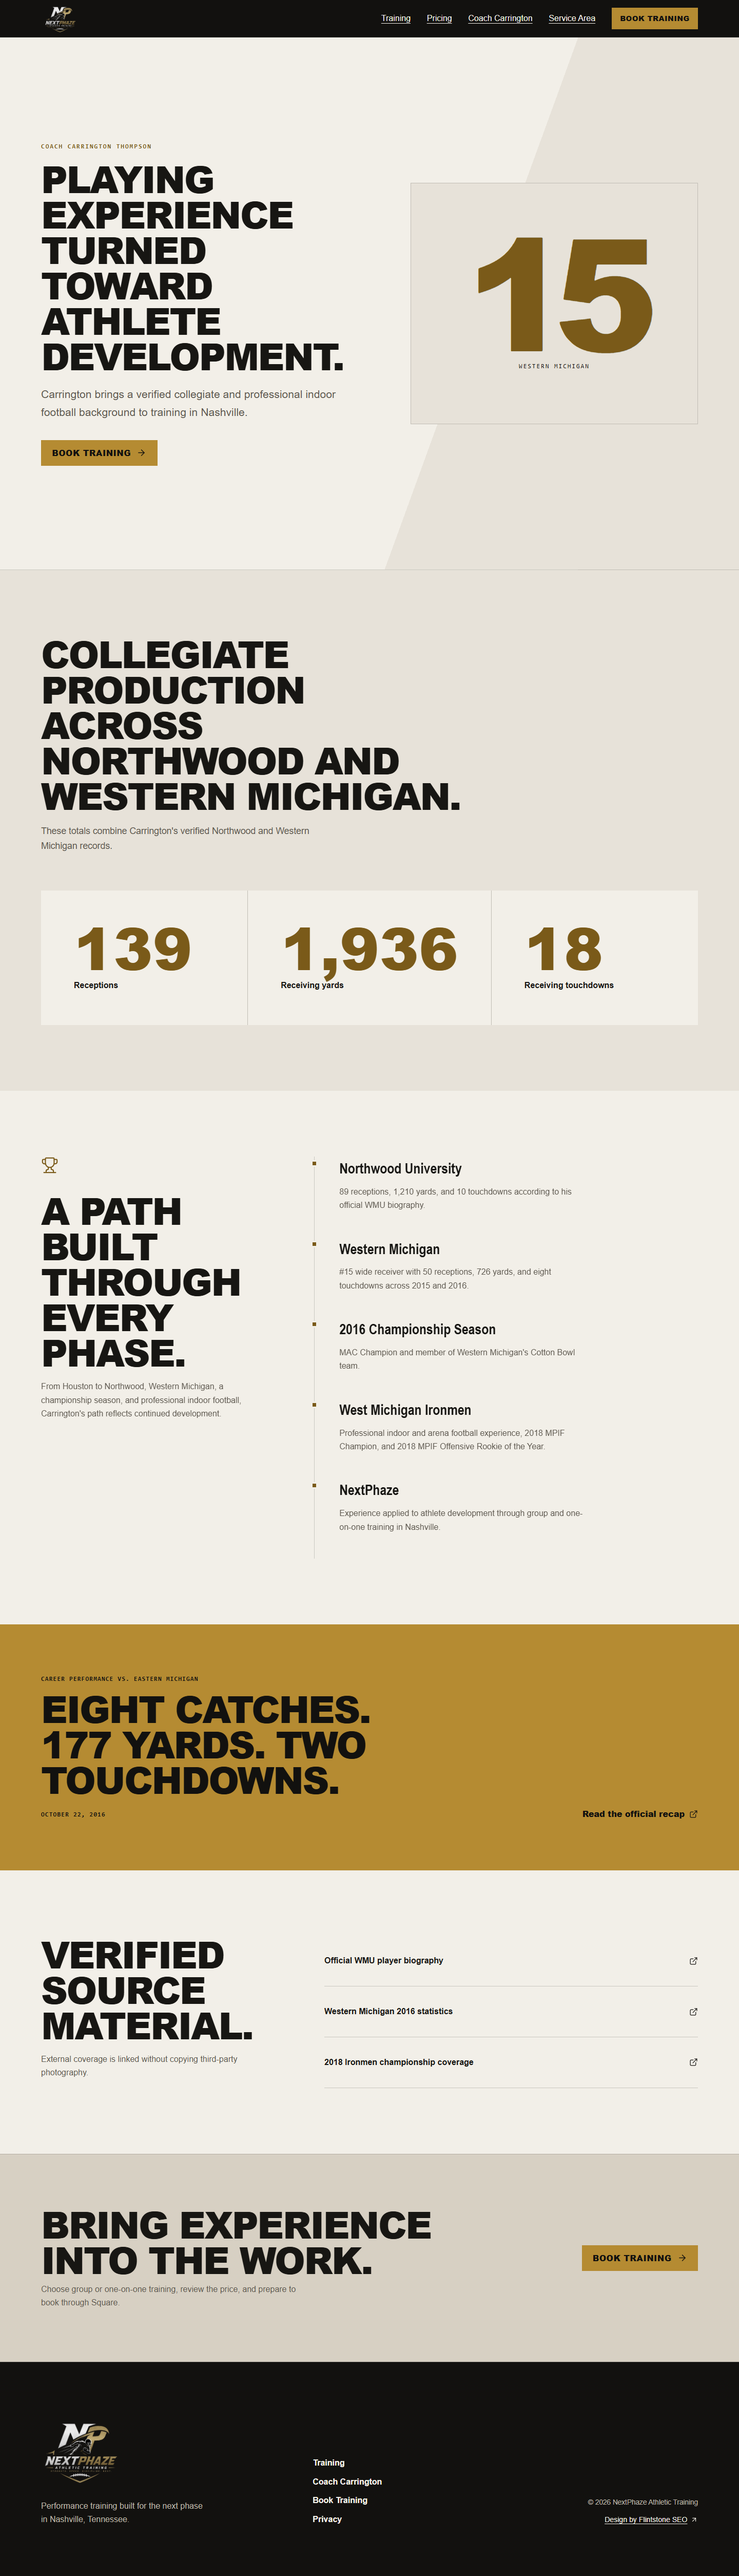
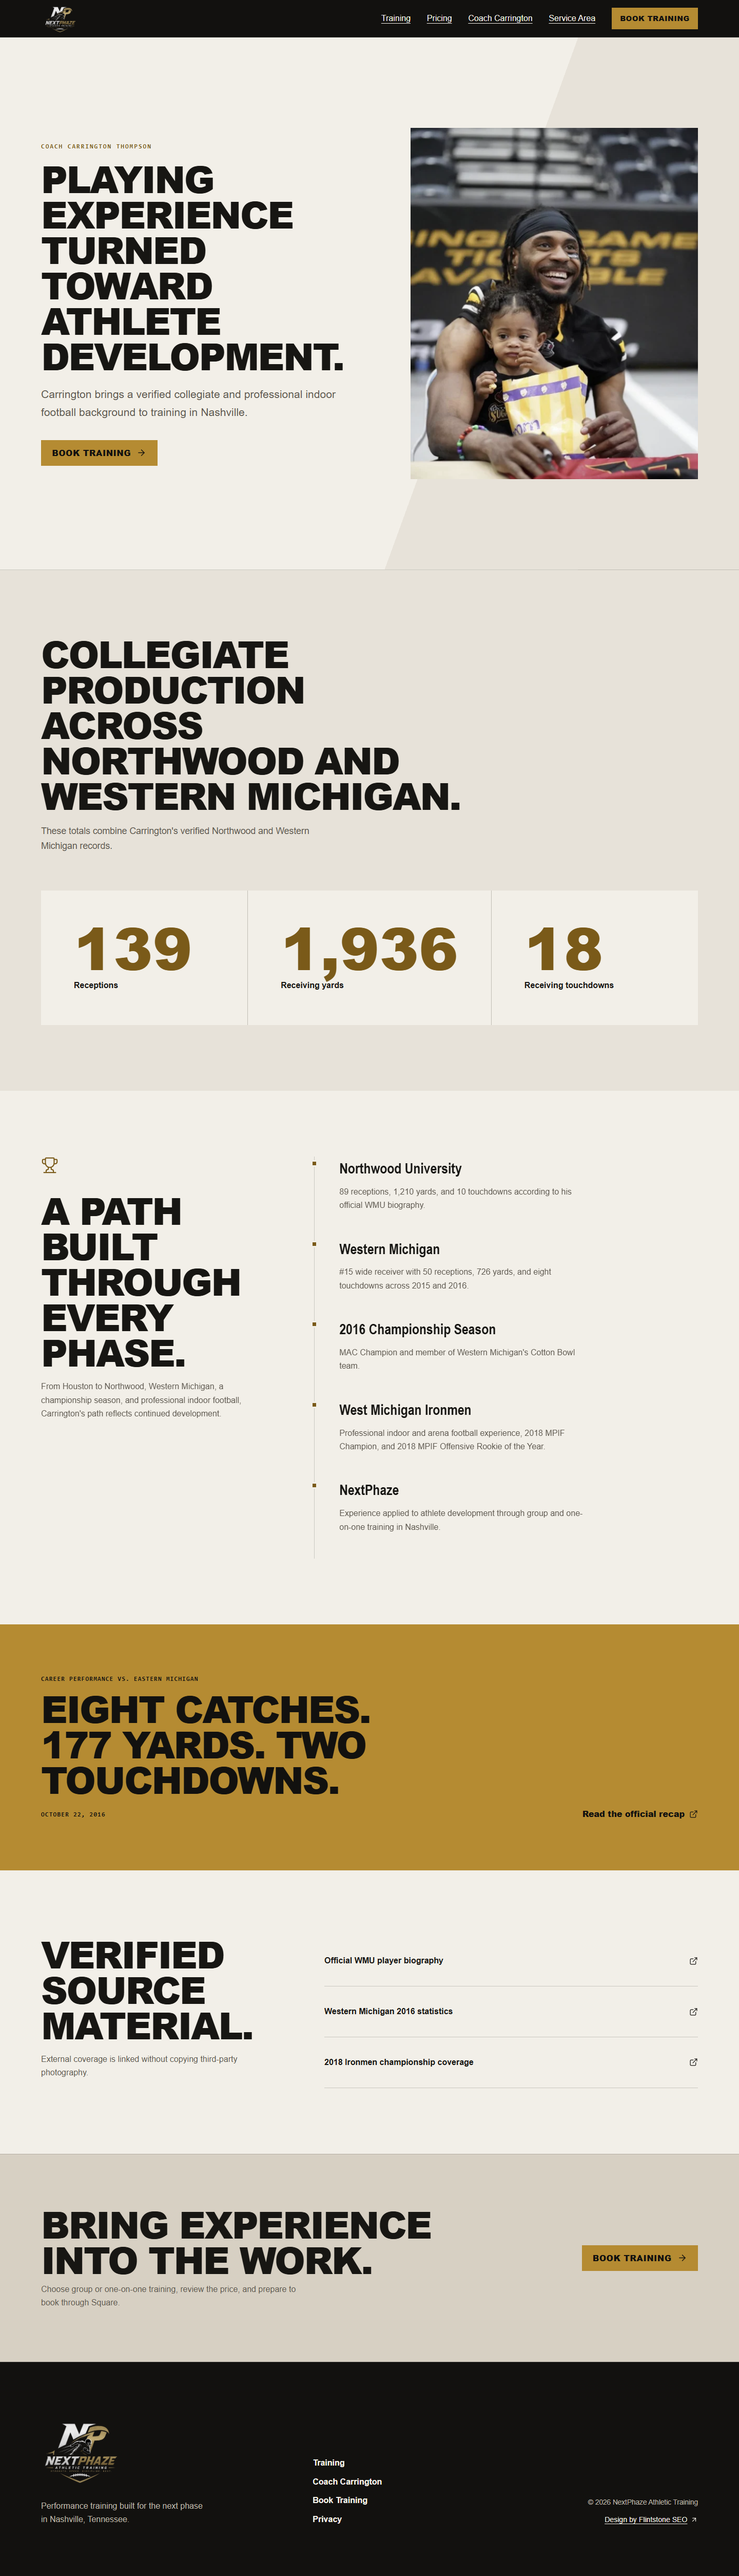
updated images

Changed region(s): [[0.5312, 0.0311, 0.9688, 0.1866]]

diff --git a/src/content.config.ts b/src/content.config.ts
@@ -19,7 +19,7 @@ const contentBlock = z.discriminatedUnion('_type', [
   z.object({ _type: z.literal('training_hero'), eyebrow: z.string(), title: z.string(), copy: z.string(), button_label: z.string(), button_href: z.string(), route_steps: z.array(z.object({ label: z.string() })) }),
   z.object({ _type: z.literal('format_section'), title: z.string(), copy: z.string() }),
   z.object({ _type: z.literal('focus_index'), title: z.string(), image: z.string(), image_alt: z.string() }),
-  z.object({ _type: z.literal('coach_hero'), eyebrow: z.string(), title: z.string(), copy: z.string(), button_label: z.string(), button_href: z.string(), mark_number: z.string(), mark_label: z.string() }),
+  z.object({ _type: z.literal('coach_hero'), eyebrow: z.string(), title: z.string(), copy: z.string(), button_label: z.string(), button_href: z.string(), image: z.string(), image_alt: z.string() }),
   z.object({ _type: z.literal('career_stats'), title: z.string(), copy: z.string(), stats: z.array(valueLabel) }),
   z.object({ _type: z.literal('career_story'), title: z.string(), copy: z.string(), items: z.array(textPair) }),
   z.object({ _type: z.literal('performance_callout'), eyebrow: z.string(), title: z.string(), date: z.string(), link_label: z.string(), link_href: z.string() }),

diff --git a/src/styles/global.css b/src/styles/global.css
@@ -985,30 +985,20 @@ h3 {
   overflow-wrap: normal;
 }
 
-.coach-mark {
-  display: grid;
-  min-height: 470px;
-  place-content: center;
-  border: 1px solid var(--line);
+.coach-portrait {
+  position: relative;
+  min-height: 520px;
+  margin: 0;
+  overflow: hidden;
   background: var(--surface);
-  text-align: center;
 }
 
-.coach-mark span {
-  color: var(--gold);
-  font-family: var(--display);
-  font-size: clamp(10rem, 24vw, 19rem);
-  font-weight: 900;
-  letter-spacing: -0.1em;
-  line-height: 0.7;
-}
-
-.coach-mark p {
-  margin: 2rem 0 0;
-  font-family: var(--mono);
-  font-size: 0.78rem;
-  letter-spacing: 0.14em;
-  text-transform: uppercase;
+.coach-portrait > img {
+  width: 100%;
+  height: 100%;
+  min-height: inherit;
+  object-fit: cover;
+  object-position: 50% 34%;
 }
 
 .career-stats {
@@ -1582,9 +1572,8 @@ h3 {
     grid-column: auto;
   }
 
-  .coach-mark {
-    min-height: 340px;
-    overflow: hidden;
+  .coach-portrait {
+    min-height: 430px;
   }
 
   .stat-grid > div {

diff --git a/media-provenance.md b/media-provenance.md
@@ -16,6 +16,7 @@ Only assets marked `owned` or `licensed` may be copied into production. Official
 | NP-PHOTO-01 | Client-supplied project folder | Carrington action photo | owned | Homepage hero | `/public/images/carrington-action-hero.webp` | User explicitly selected and approved this supplied image for hero use on 2026-08-30 |
 | NP-PHOTO-02 | Client-supplied project folder | Carrington Western Michigan action photo | owned | Homepage coach proof | `/public/images/carrington-wmu-proof.webp` | User explicitly selected this supplied image for the combined WMU #15 and 2016 credential panel on 2026-08-31 |
 | NP-PHOTO-03 | Client-supplied project folder | Carrington Ironmen action photo | owned | Homepage coach proof | `/public/images/carrington-mpif-proof.webp` | User explicitly selected this supplied image for the 2018 MPIF credential panel on 2026-08-31 |
+| NP-PHOTO-04 | Client-supplied project folder | Carrington portrait at an indoor football venue | owned | Coach Carrington hero | `/public/images/carrington-coach-portrait.webp` | User explicitly selected this supplied image for the Coach Carrington page on 2026-08-31 |
 | NP-GEN-01 | OpenAI built-in image generation | Synthetic training image | owned | Homepage and 1-on-1 training | `/public/images/training-acceleration.webp` | Anonymous athlete, not Carrington or a client |
 | NP-GEN-02 | OpenAI built-in image generation | Synthetic training image | owned | Training and speed/agility pages | `/public/images/training-lane.webp` | Empty training setup with no people |
 | NP-GEN-03 | OpenAI built-in image generation | Synthetic training image | owned | Wide receiver training page | `/public/images/receiver-catch.webp` | Anonymous athlete, not Carrington or a client |

diff --git a/templates/design-decision-log.md b/templates/design-decision-log.md
@@ -35,3 +35,9 @@ Decision: complete the partial CloudCannon integration with a structured `pages`
 ## 2026-08-31: Homepage career proof imagery
 
 Decision: combine the Western Michigan #15 and 2016 championship credentials into one image-backed panel using the client-selected `Carrington Action Shot2.PNG`. Pair the 2018 MPIF championship and Offensive Rookie of the Year credential with `Carrington Action 5.png` in a second panel. Use dark lower scrims and responsive crops so the credentials remain readable without separating the photographs from their related career proof.
+
+## 2026-08-31: Coach page portrait
+
+Decision: replace the abstract right-side coach hero mark with the client-selected `Image of Carrington.png`. Preserve the `15 / Western Michigan` credential as a compact gold overlay, keeping the page's established Training Lab identity while giving the coach introduction a personal focal point.
+
+Revision: remove the `15 / Western Michigan` overlay after visual review. The portrait is stronger without competing text, while Carrington's Western Michigan history remains documented in the career content below.

diff --git a/src/content/pages/coach-carrington.md b/src/content/pages/coach-carrington.md
@@ -2,7 +2,7 @@
 _schema: page_builder
 title: Coach Carrington Thompson | NextPhaze Nashville
 description: Meet NextPhaze coach Carrington Thompson, former Western Michigan
-preload_image: /uploads/image-of-carrington.png
+preload_image: /images/carrington-coach-portrait.webp
 content_blocks:
   - _type: coach_hero
     eyebrow: Coach Carrington Thompson
@@ -11,8 +11,8 @@ content_blocks:
       background to training in Nashville.
     button_label: Book Training
     button_href: /book-training/
-    mark_number: '15'
-    mark_label: Western Michigan
+    image: /images/carrington-coach-portrait.webp
+    image_alt: Carrington Thompson smiling while seated with a young child at an indoor football venue
   - _type: career_stats
     title: Collegiate production across Northwood and Western Michigan.
     copy: These totals combine Carrington's verified Northwood and Western Michigan
